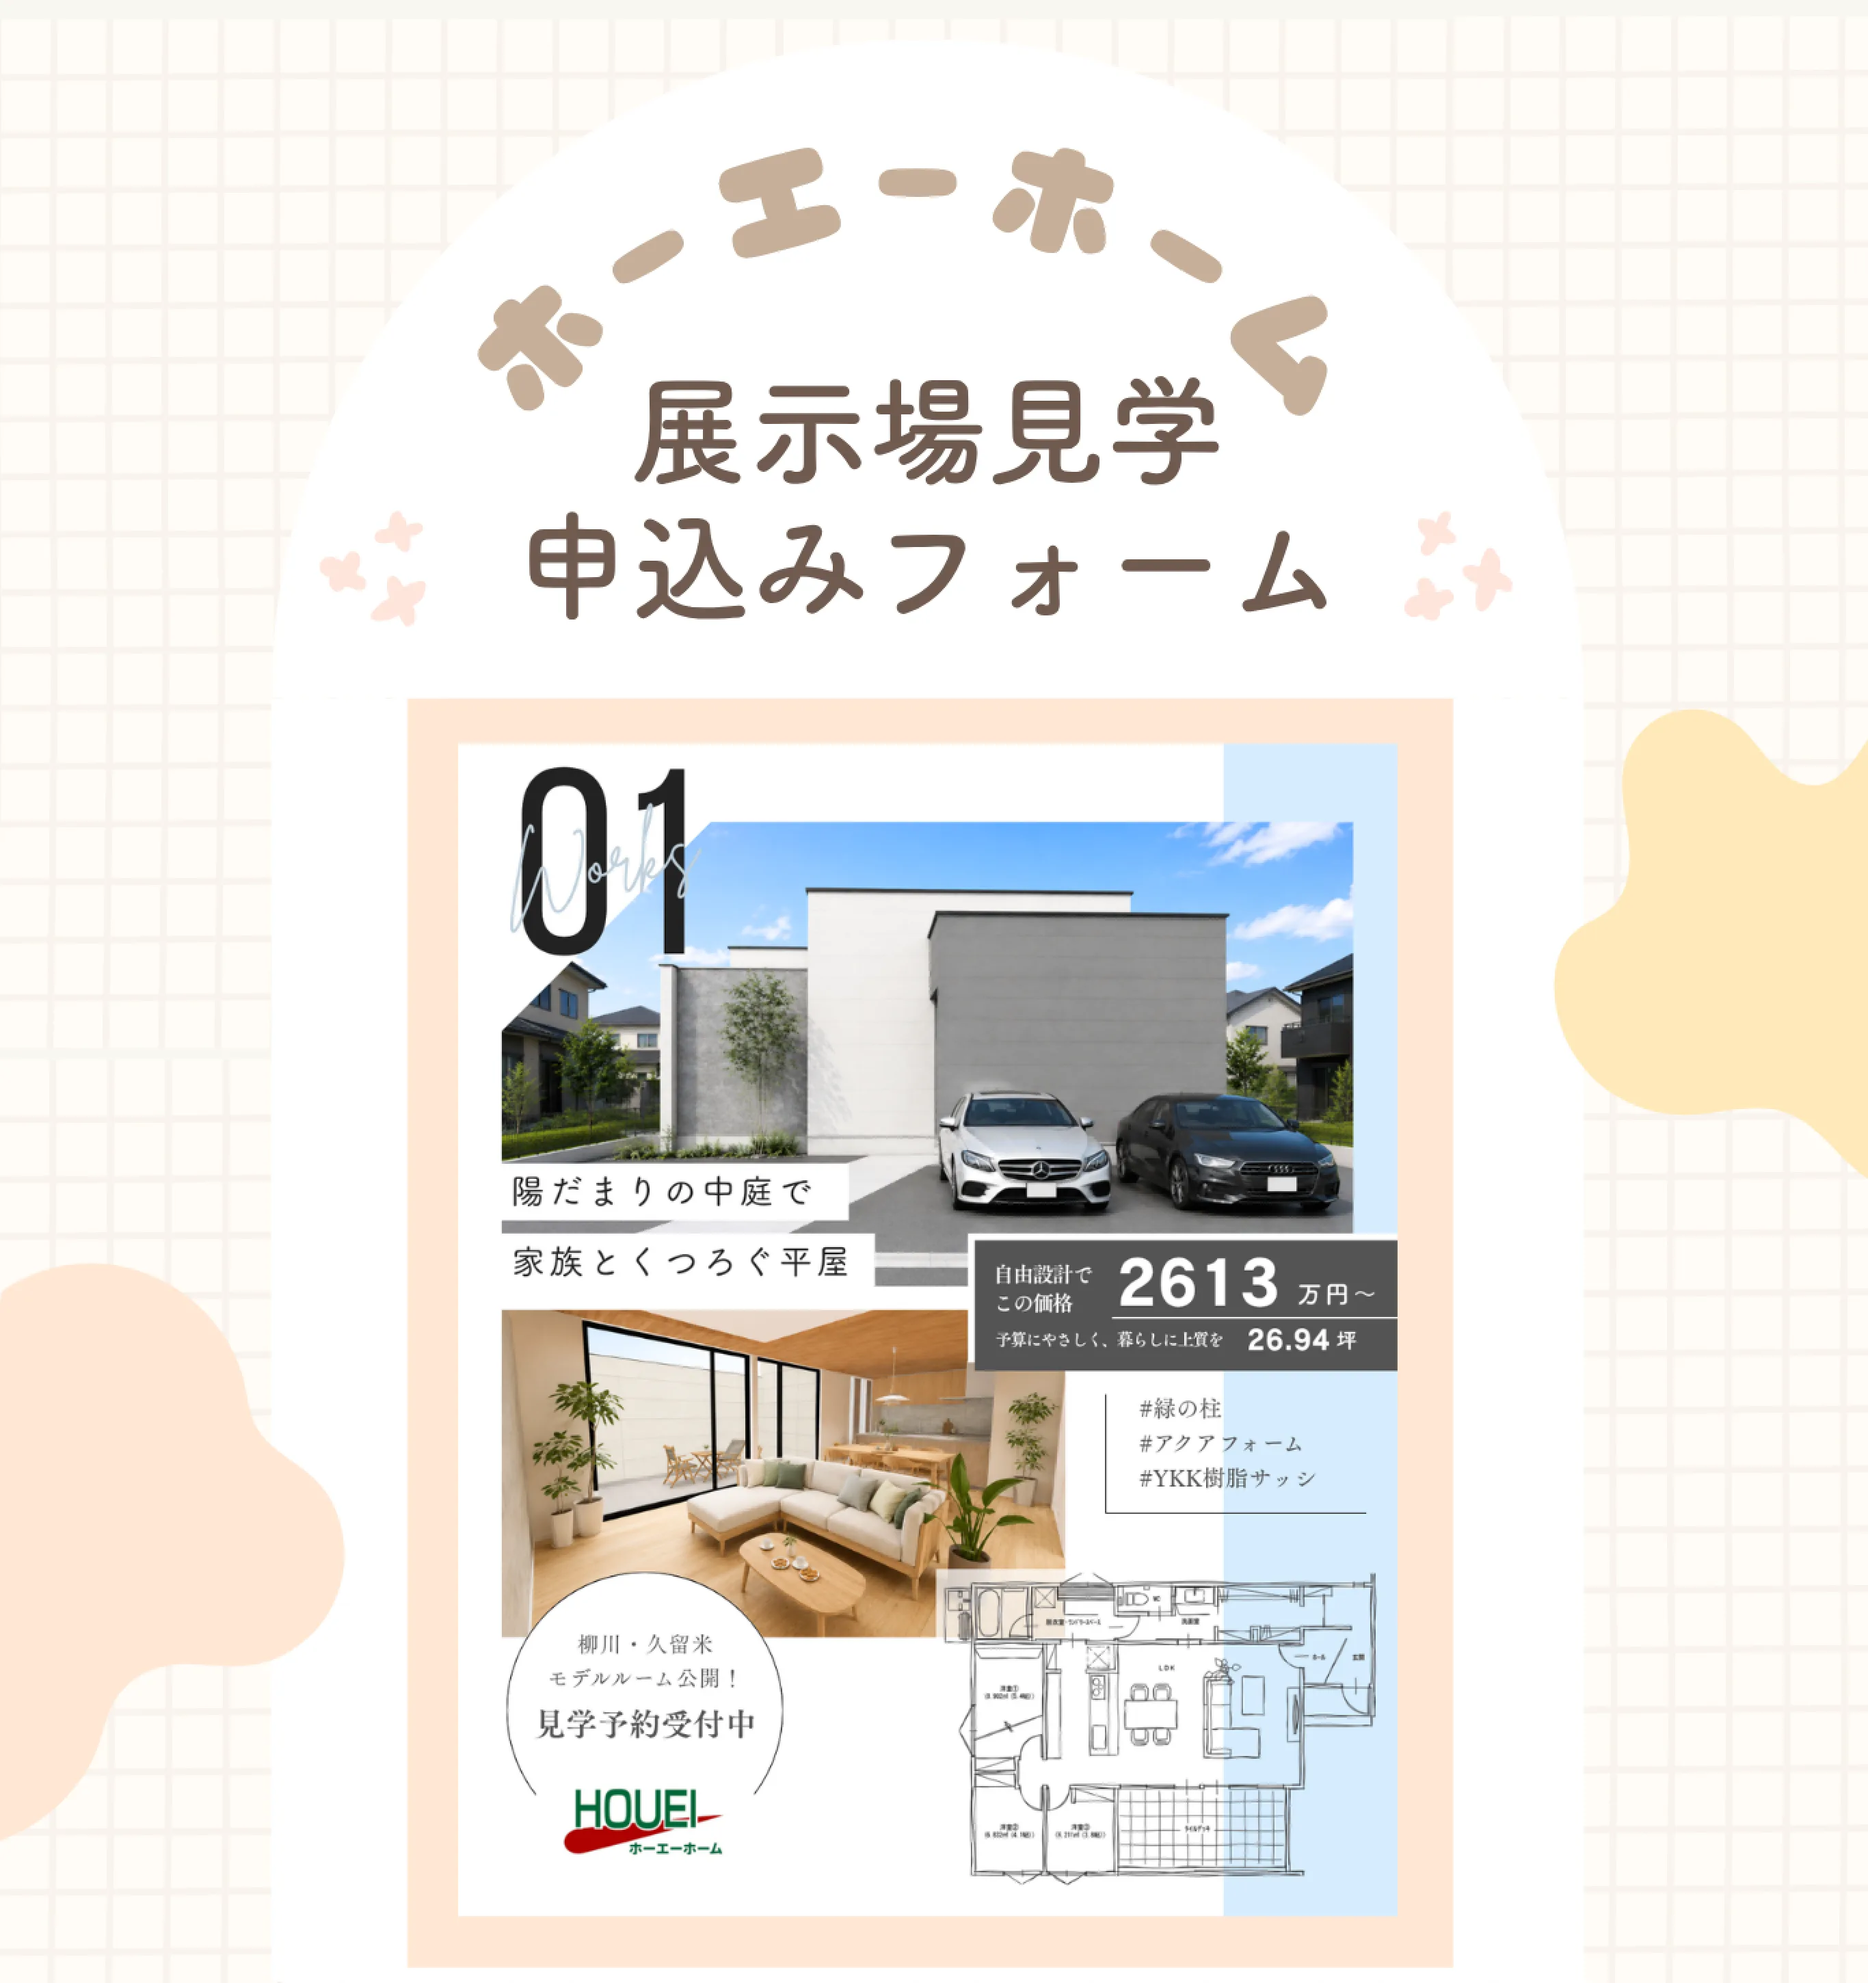
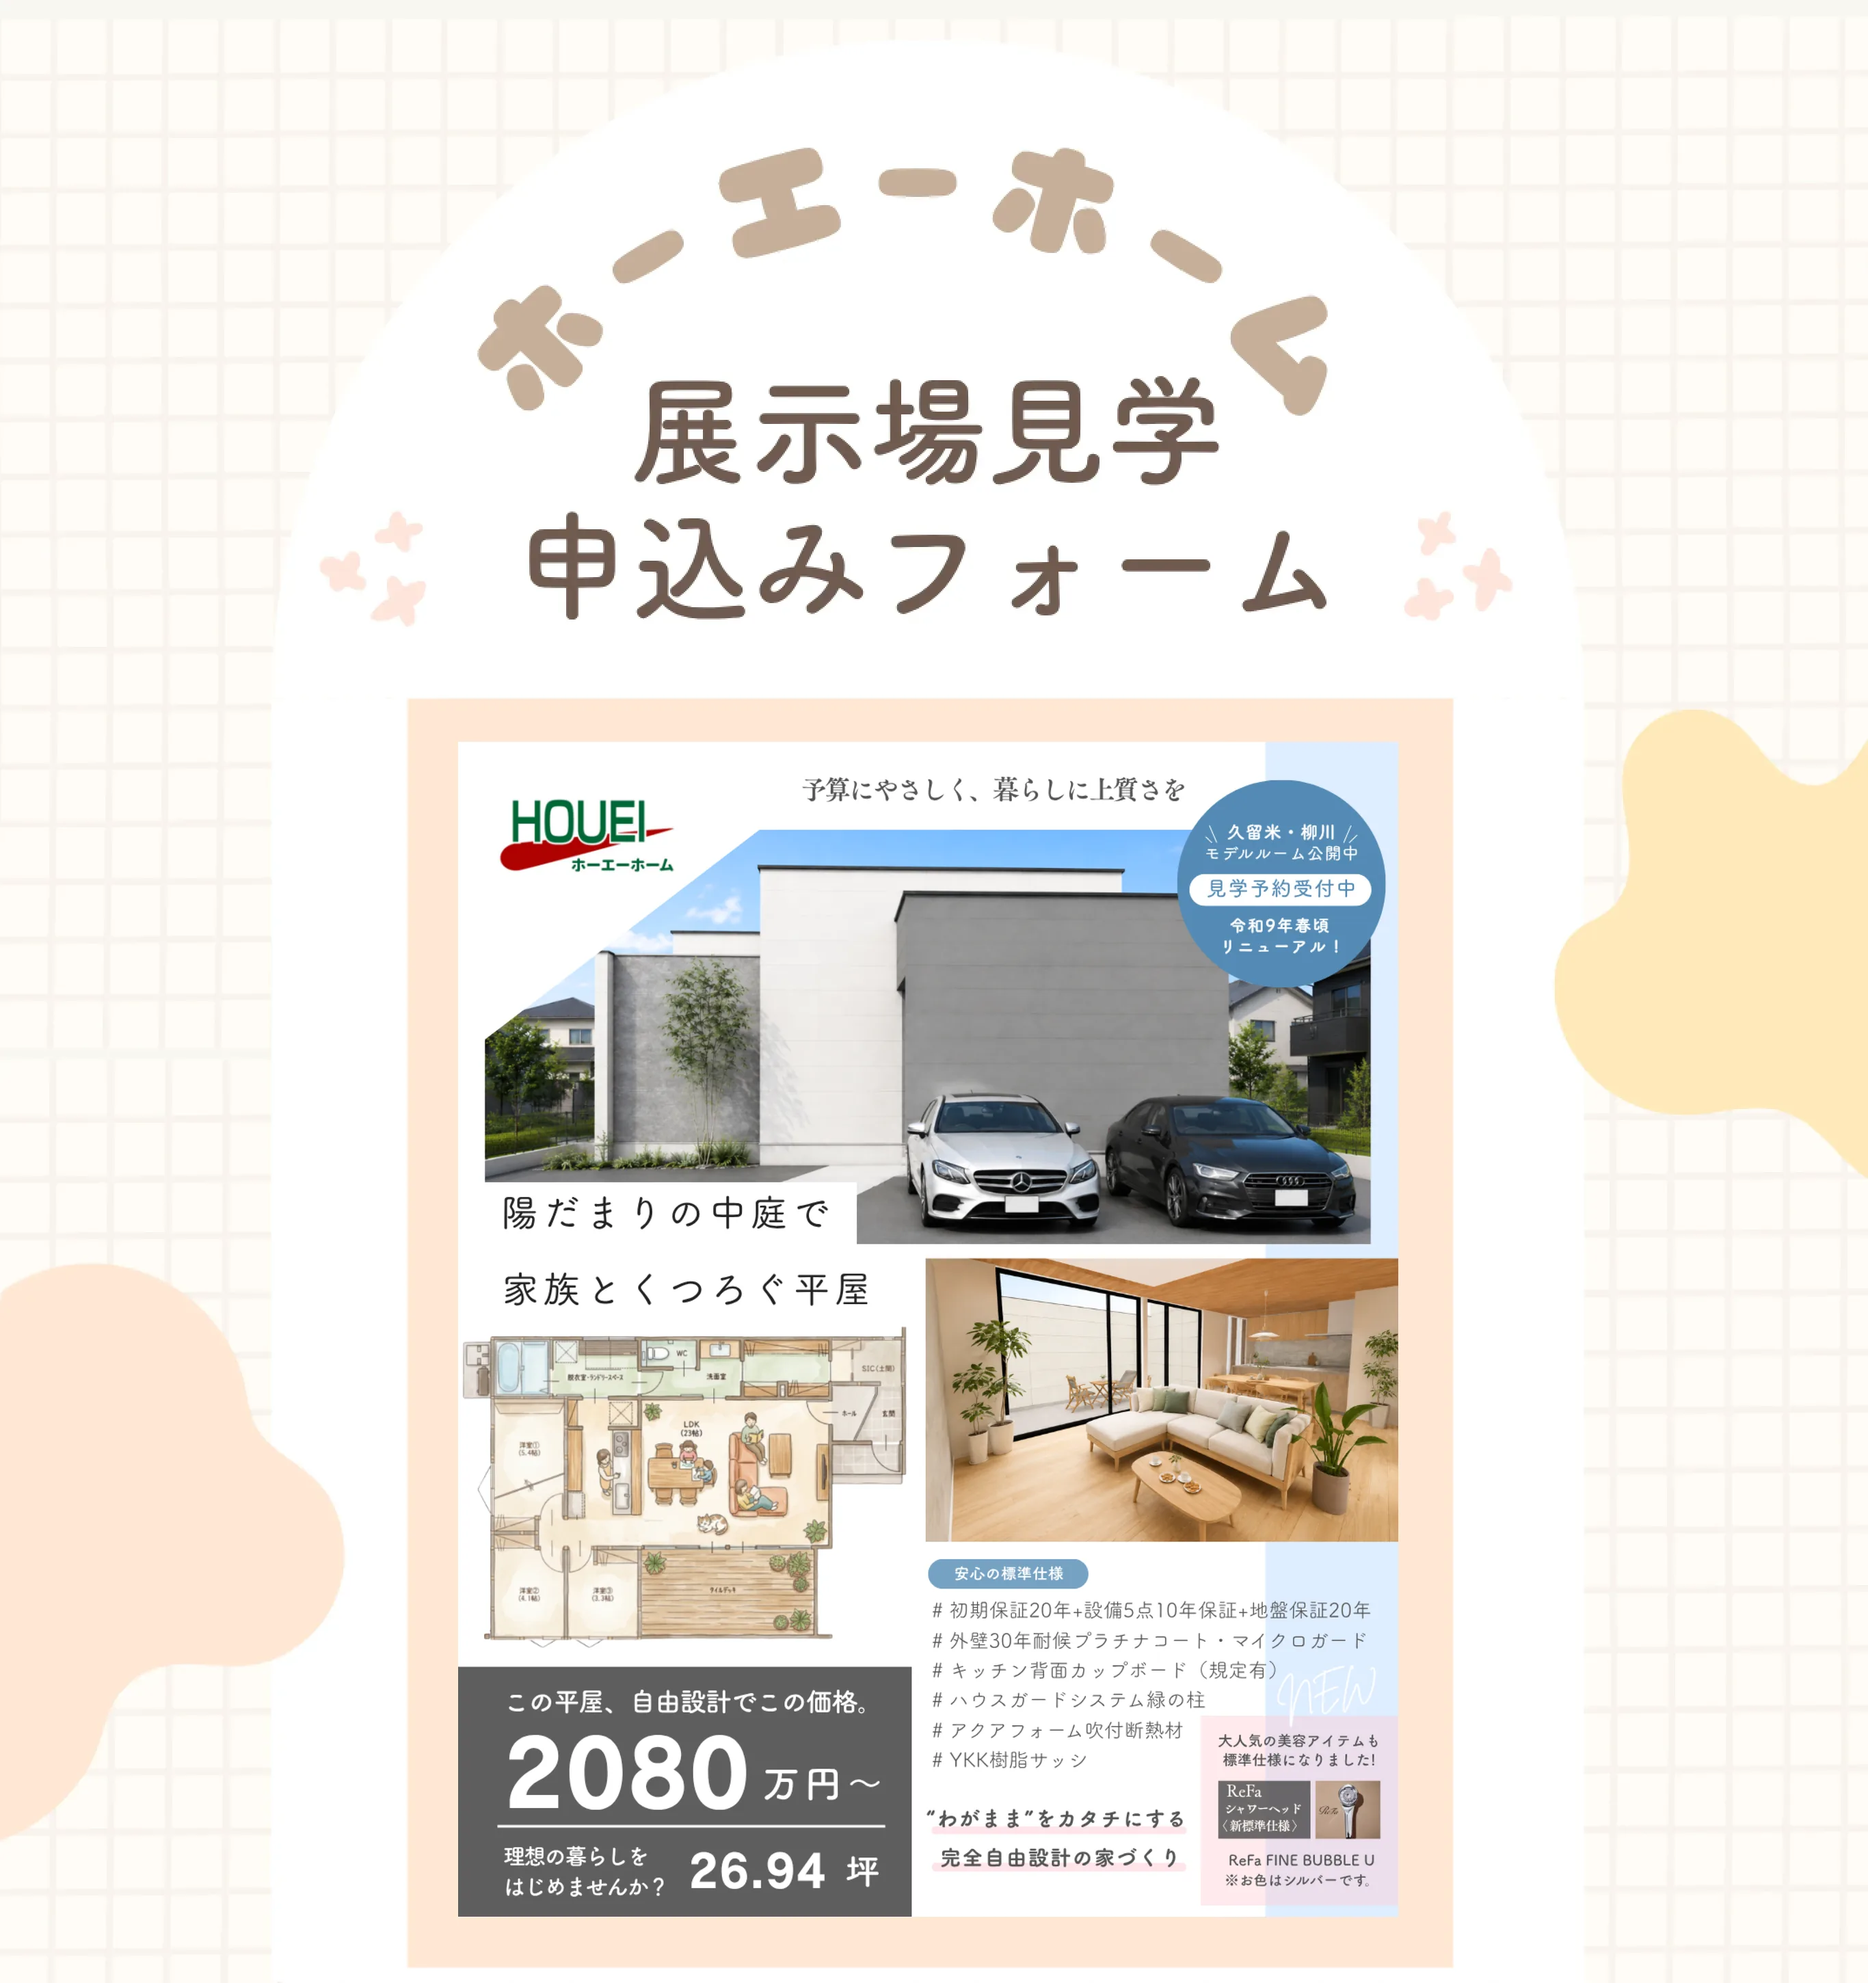
展示場LP クライアント修正5点（2026-07-27）
- ナビ「見学会申込み」→「安心の建築資材」に変更・#shizaiへ遷移
- 時間帯に「17:00〜」と「その他（自由記入）」を追加（その他は入力必須・メール本文にも反映）
- フォーム枠内のチラシを新版（26.94坪 2,080万円〜）に差し替え
- フッター刷新: 展示場をバナー画像2枚＋電話番号の透明タップ領域に、本社情報を追加、「（本社）」表記を削除
- TOP画像を差し替え（強調ラインが文字上に乗るデザインミスの修正版）

Changed region(s): [[0.2178, 0.3724, 0.7467, 0.9931]]

diff --git a/lp-model2607/index.html b/lp-model2607/index.html
@@ -34,7 +34,7 @@
       <nav class="nav-links">
         <a href="#kodawari">こだわり＆価格</a>
         <a href="#voice">お施主さまの声</a>
-        <a href="#form">見学会申込み</a>
+        <a href="#shizai">安心の建築資材</a>
       </nav>
       <a href="#form" class="nav-cta">見学会を申込む</a>
     </div>
@@ -171,6 +171,13 @@
               <label class="opt"><input type="radio" name="time" value="14:00〜"><span>14:00〜</span></label>
               <label class="opt"><input type="radio" name="time" value="15:00〜"><span>15:00〜</span></label>
               <label class="opt"><input type="radio" name="time" value="16:00〜"><span>16:00〜</span></label>
+              <label class="opt"><input type="radio" name="time" value="17:00〜"><span>17:00〜</span></label>
+              <label class="opt"><input type="radio" name="time" value="その他" id="timeOther"><span>その他</span></label>
+            </div>
+            <div class="opt-other" id="timeOtherWrap" hidden>
+              <input type="text" name="time_other" id="timeOtherInput"
+                     placeholder="例）9:30ごろ／夕方以降でも可 など"
+                     aria-label="ご希望の時間帯（自由記入）" autocomplete="off">
             </div>
           </fieldset>
 
@@ -240,20 +247,29 @@
   <footer class="site-footer">
     <img class="foot-logo" src="assets/img/logo.png" alt="HOUEI ホーエーホーム">
     <p class="foot-name">株式会社宝栄工業　ホーエーホーム</p>
-    <p class="foot-free"><a href="tel:0120188578">0120-188-578</a></p>
-    <p class="foot-hours">受付 10:00〜18:00／定休日：水曜日・木曜日</p>
-    <div class="foot-offices">
-      <div class="foot-office">
-        <p class="foot-office-name">柳川展示場（本社）</p>
-        <p class="foot-office-addr">〒832-0826　福岡県柳川市三橋町高畑210-2</p>
-        <p class="foot-office-tel">TEL <a href="tel:0944888378">0944-88-8378</a></p>
+
+    <!-- 展示場（画像バナー＋電話番号の透明タップ領域） -->
+    <div class="foot-showrooms">
+      <div class="foot-showroom">
+        <img src="assets/img/office_yanagawa.webp" width="2000" height="1000" loading="lazy"
+             alt="ホーエーホーム柳川展示場　0120-188-578／福岡県柳川市三橋町高畑210-2／受付 10:00〜18:00／定休日：水曜日・木曜日">
+        <a class="tel-hot" href="tel:0120188578" aria-label="柳川展示場に電話する（0120-188-578）"></a>
       </div>
-      <div class="foot-office">
-        <p class="foot-office-name">久留米展示場</p>
-        <p class="foot-office-addr">〒839-0863　福岡県久留米市国分町206-1</p>
-        <p class="foot-office-tel">TEL <a href="tel:0942545578">0942-54-5578</a></p>
+      <div class="foot-showroom">
+        <img src="assets/img/office_kurume.webp" width="2000" height="1000" loading="lazy"
+             alt="ホーエーホーム久留米展示場　0120-011-358／福岡県久留米市国分町206-1／受付 10:00〜18:00／定休日：水曜日・木曜日">
+        <a class="tel-hot" href="tel:0120011358" aria-label="久留米展示場に電話する（0120-011-358）"></a>
       </div>
     </div>
+
+    <!-- 本社 -->
+    <div class="foot-hq">
+      <p class="foot-hq-name">株式会社宝栄工業　本社</p>
+      <p class="foot-hq-addr">〒832-0058　福岡県柳川市上宮永町413</p>
+      <p class="foot-hq-tel">TEL <a href="tel:0944740663">0944-74-0663</a></p>
+      <p class="foot-hq-holiday">定休日：土曜日・日曜日</p>
+    </div>
+
     <p class="foot-copy">&copy; 2026 株式会社宝栄工業（ホーエーホーム）</p>
   </footer>
 

diff --git a/lp-model2607/assets/css/style.css b/lp-model2607/assets/css/style.css
@@ -112,6 +112,8 @@ fieldset.fg{margin:0;padding:0}
 .opt input:checked{border-color:var(--crimson)}
 .opt input:checked::before{transform:scale(1)}
 .opt:has(input:checked){color:var(--crimson-dark)}
+/* 「その他」選択時に出る自由記入欄 */
+.opt-other{margin:10px 0 0 32px}
 
 /* テキスト入力 */
 input[type=text],input[type=tel],input[type=email],input[type=date],select,textarea{
@@ -220,16 +222,19 @@ textarea{resize:vertical}
   border-top:1px solid var(--line);
 }
 .foot-logo{height:40px;width:auto;margin:0 auto 14px}
-.foot-name{font-weight:700;font-size:17px;margin:0 0 14px}
-.foot-free{margin:0;font-size:27px;font-weight:700;color:var(--crimson-dark);letter-spacing:.02em;line-height:1.2}
-.foot-free a{color:inherit;text-decoration:none}
-.foot-hours{font-size:13px;color:var(--ink-soft);margin:5px 0 24px}
-.foot-offices{display:flex;justify-content:center;gap:38px;flex-wrap:wrap;max-width:700px;margin:0 auto 22px}
-.foot-office{font-size:13px;line-height:1.85}
-.foot-office-name{font-weight:700;color:var(--ink);margin:0 0 4px}
-.foot-office-addr{color:var(--ink-soft);margin:0}
-.foot-office-tel{color:var(--ink-soft);margin:2px 0 0}
-.foot-office-tel a{color:var(--ink);text-decoration:none;font-weight:700}
+.foot-name{font-weight:700;font-size:17px;margin:0 0 22px}
+/* 展示場バナー（フリーダイヤル・住所・受付・定休日は画像内に含む） */
+.foot-showrooms{display:flex;flex-direction:column;align-items:center;gap:16px;max-width:560px;margin:0 auto 26px}
+.foot-showroom{position:relative;width:100%;line-height:0}
+.foot-showroom img{width:100%;height:auto;border:1px solid var(--line);border-radius:14px}
+/* 電話番号の上に重ねる透明タップ領域（スマホから発信できるように） */
+.tel-hot{position:absolute;left:3%;top:39%;width:42%;height:17%;border-radius:8px}
+/* 本社 */
+.foot-hq{font-size:13px;line-height:1.9;margin:0 auto 22px}
+.foot-hq-name{font-weight:700;color:var(--ink);font-size:14px;margin:0 0 4px}
+.foot-hq-addr,.foot-hq-holiday{color:var(--ink-soft);margin:0}
+.foot-hq-tel{color:var(--ink-soft);margin:0}
+.foot-hq-tel a{color:var(--ink);text-decoration:none;font-weight:700}
 .foot-copy{font-size:12px;color:var(--ink-soft);margin:8px 0 0}
 
 /* ===== モバイル固定CTA ===== */

diff --git a/lp-model2607/assets/js/main.js b/lp-model2607/assets/js/main.js
@@ -57,6 +57,21 @@
     });
   }
 
+  /* ---- 時間帯「その他」：選択したときだけ自由記入欄を出す ---- */
+  var timeOtherRadio = document.getElementById('timeOther');
+  var timeOtherWrap = document.getElementById('timeOtherWrap');
+  var timeOtherInput = document.getElementById('timeOtherInput');
+  function syncTimeOther(focus) {
+    if (!timeOtherWrap) return;
+    var on = !!(timeOtherRadio && timeOtherRadio.checked);
+    timeOtherWrap.hidden = !on;
+    if (on && focus && timeOtherInput) timeOtherInput.focus();
+  }
+  Array.prototype.forEach.call(document.querySelectorAll('input[name="time"]'), function (r) {
+    r.addEventListener('change', function () { syncTimeOther(true); });
+  });
+  syncTimeOther(false);
+
   /* ---- フォーム検証＆送信 ---- */
   var form = document.getElementById('reserveForm');
   var thanks = document.getElementById('thanks');
@@ -78,6 +93,15 @@
     // 必須ラジオ
     if (!form.querySelector('input[name="venue"]:checked')) problems.push('会場');
     if (!form.querySelector('input[name="time"]:checked')) problems.push('時間帯');
+
+    // 時間帯「その他」を選んだときは自由記入欄も必須
+    if (timeOtherInput) {
+      timeOtherInput.classList.remove('invalid');
+      if (timeOtherRadio && timeOtherRadio.checked && !timeOtherInput.value.trim()) {
+        timeOtherInput.classList.add('invalid');
+        problems.push('ご希望の時間帯（その他）');
+      }
+    }
 
     // 予約希望日（カレンダー）
     var dateEl = form.elements['date'];

diff --git a/lp-model2607/mail.php b/lp-model2607/mail.php
@@ -32,6 +32,7 @@ if (!empty($_POST["_gotcha"])) { done(200, "OK", $isAjax); }
 
 function v($k) { return isset($_POST[$k]) ? trim((string)$_POST[$k]) : ""; }
 $venue = v("venue"); $date = v("date"); $time = v("time"); $name = v("name"); $tel = v("tel"); $email = v("email");
+$timeOther = v("time_other");
 $address = v("address"); $people = v("people"); $message = v("message");
 
 /* 必須チェック */
@@ -39,6 +40,7 @@ $errors = [];
 if ($venue === "") $errors[] = "会場";
 if ($date === "")  $errors[] = "予約希望日";
 if ($time === "")  $errors[] = "時間帯";
+if ($time === "その他" && $timeOther === "") $errors[] = "ご希望の時間帯（その他）";
 if ($name === "")  $errors[] = "お名前";
 if ($tel === "")   $errors[] = "電話番号";
 if ($email === "" || !filter_var($email, FILTER_VALIDATE_EMAIL)) $errors[] = "メールアドレス";
@@ -52,11 +54,14 @@ if ($ts !== false) {
   $dateDisp = date("Y/n/j", $ts) . "（" . $wdays[(int)date("w", $ts)] . "）";
 }
 
+/* 時間帯：「その他」は自由記入の内容を添える */
+$timeDisp = ($time === "その他" && $timeOther !== "") ? "その他（{$timeOther}）" : $time;
+
 /* 本文 */
 $body  = "ホーエーホーム 展示場見学 のお申込みがありました。\n\n";
 $body .= "■ 会場　　　：{$venue}\n";
 $body .= "■ 予約希望日：{$dateDisp}\n";
-$body .= "■ 時間帯　　：{$time}\n";
+$body .= "■ 時間帯　　：{$timeDisp}\n";
 $body .= "■ お名前　　：{$name}\n";
 $body .= "■ 電話番号　：{$tel}\n";
 $body .= "■ メール　　：{$email}\n";
@@ -69,7 +74,7 @@ $body .= "ページ　：" . (isset($_SERVER["HTTP_REFERER"]) ? $_SERVER["HTTP_R
 
 if ($TO === "") { done(500, "送信先が未設定です。お手数ですがお電話ください。", $isAjax); }
 
-$subject = "【展示場見学申込み】{$name} 様（{$venue}・{$dateDisp} {$time}）";
+$subject = "【展示場見学申込み】{$name} 様（{$venue}・{$dateDisp} {$timeDisp}）";
 $headers  = "From: " . mb_encode_mimeheader($FROM_NAME) . " <{$FROM}>\r\n";
 $headers .= "Reply-To: " . mb_encode_mimeheader($name) . " <{$email}>\r\n";
 if ($BCC !== "") { $headers .= "Bcc: {$BCC}\r\n"; }
